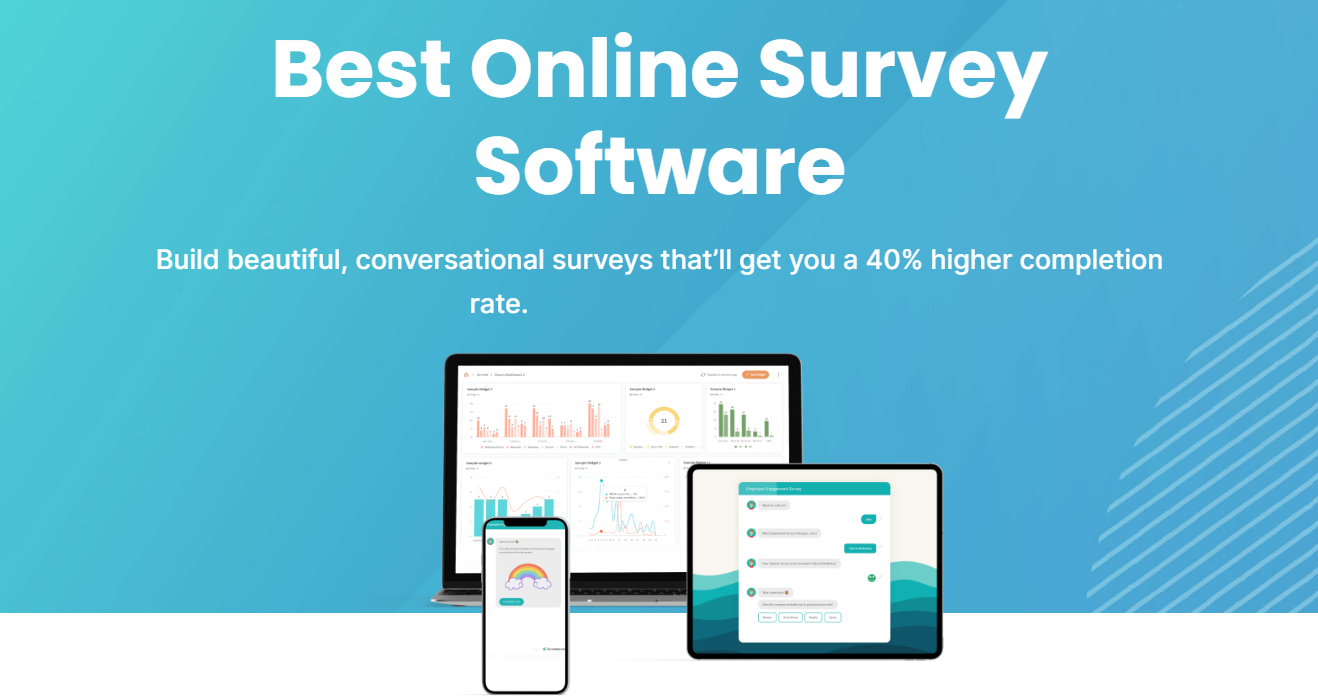
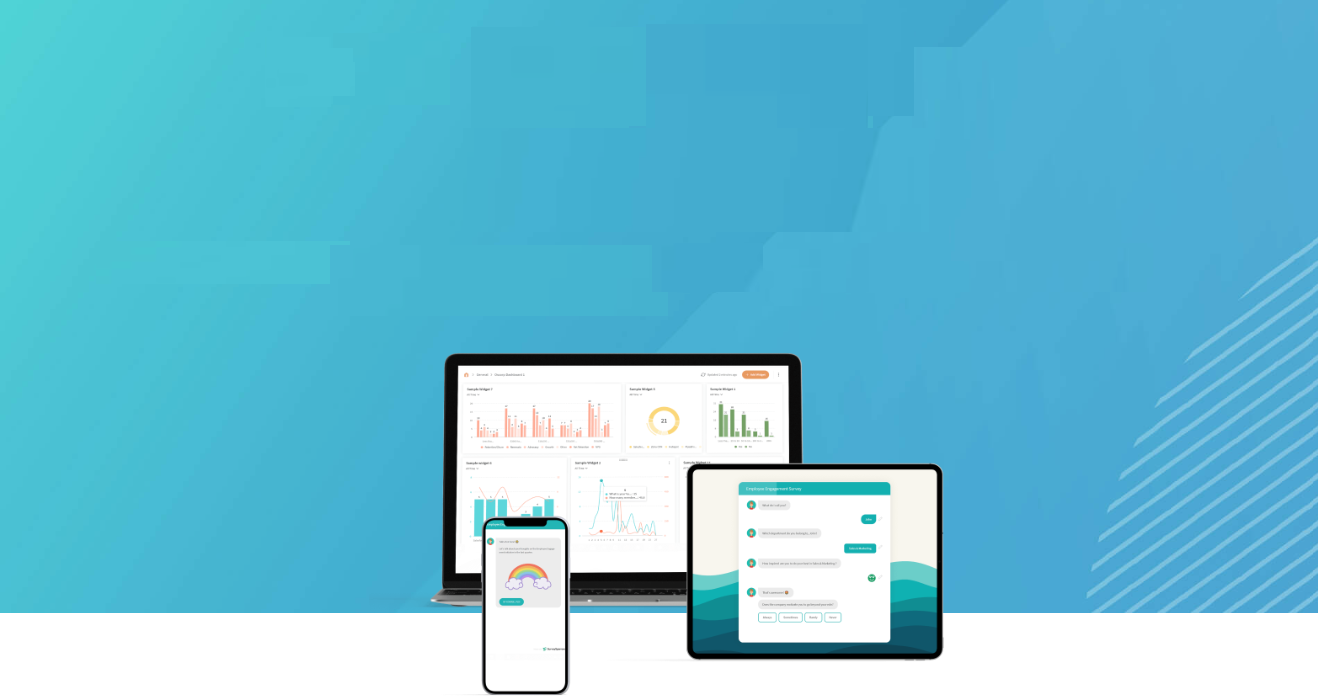
feat: landing styling

diff --git a/client/src/components/Benefits.jsx b/client/src/components/Benefits.jsx
@@ -1,10 +1,25 @@
-import { Box, Grid, Typography } from '@mui/material';
+import {
+  Grid,
+  Typography,
+  Paper,
+  List,
+  ListItem,
+  ListItemIcon,
+  ListItemText,
+} from '@mui/material';
+import CheckIcon from '@mui/icons-material/Check';
 import planing from '../assets/planing.jpg';
 import Styles from '../assets/Styles';
 
+const benefits = [
+  'Improve customer satisfaction',
+  'Identify areas for improvement',
+  'Make better business decisions',
+  ' Increase customer loyalty',
+];
 export const Benefits = () => {
   return (
-    <Box sx={{ padding: '20px 0' }}>
+    <Paper elevation={3} sx={{ padding: '10px 20px', bgcolor: '#43B0D1' }}>
       <Grid container spacing={1} alignItems="center" style={{ flexGrow: 1 }}>
         <Grid container item xs={12} justifyContent="center">
           <Typography variant="h2" sx={Styles.asideTitleTypography}>
@@ -17,49 +32,29 @@ export const Benefits = () => {
           md={6}
           style={{ display: 'flex', flexDirection: 'column' }}
         >
-          <ul style={{ margin: '0px', padding: '0px' }}>
-            <li>
-              <Typography
-                variant="body1"
-                sx={Styles.asideSubtitleTypography}
-              >
-                Improve customer satisfaction
-              </Typography>
-            </li>
-            <li>
-              <Typography
-                variant="body1"
-                sx={Styles.asideSubtitleTypography}
-              >
-                Identify areas for improvement
-              </Typography>
-            </li>
-            <li>
-              <Typography
-                variant="body1"
-                sx={Styles.asideSubtitleTypography}
-              >
-                Make better business decisions
-              </Typography>
-            </li>
-            <li>
-              <Typography
-                variant="body1"
-                sx={Styles.asideSubtitleTypography}
-              >
-                Increase customer loyalty
-              </Typography>
-            </li>
-          </ul>
+          <List>
+            {benefits.map((benefit) => (
+              <ListItem disablePadding key={benefit}>
+                <ListItemIcon sx={{ minWidth: '30px' }}>
+                  <CheckIcon fontSize={'medium'} sx={{ color: 'white' }} />
+                </ListItemIcon>
+                <ListItemText
+                  primaryTypographyProps={{ variant: 'h7' }}
+                  primary={benefit}
+                  sx={Styles.asideSubtitleTypography}
+                />
+              </ListItem>
+            ))}
+          </List>
         </Grid>
         <Grid item xs={12} md={6}>
           <img
             src={planing}
-            style={{ maxWidth: '100%', height: 'auto', display: 'block' }}
+            style={{ maxWidth: '90%', height: 'auto', display: 'block' }}
             alt="Feedback"
           />
         </Grid>
       </Grid>
-    </Box>
+    </Paper>
   );
 };

diff --git a/client/src/components/Features.jsx b/client/src/components/Features.jsx
@@ -1,10 +1,25 @@
-import { Box, Typography, Grid } from '@mui/material';
+import {
+  Typography,
+  Grid,
+  Paper,
+  List,
+  ListItem,
+  ListItemIcon,
+  ListItemText,
+} from '@mui/material';
+import CheckIcon from '@mui/icons-material/Check';
 import feedbackImage from '../assets/feedback.jpg';
 import Styles from '../assets/Styles';
 
+const features = [
+  'Create custom surveys',
+  'Send surveys via email or link',
+  'Track survey responses',
+  ' Get detailed analytics',
+];
 export const Features = () => {
   return (
-    <Box sx={{ padding: '20px 0' }}>
+    <Paper elevation={3} sx={{ padding: '10px 20px', bgcolor: '#43B0D1' }}>
       <Grid container spacing={1} alignItems="center">
         <Grid container item xs={12} justifyContent="center">
           <Typography variant="h2" sx={Styles.asideTitleTypography}>
@@ -17,28 +32,20 @@ export const Features = () => {
           md={6}
           style={{ display: 'flex', flexDirection: 'column' }}
         >
-          <ul style={{ margin: '0px', padding: '0px' }}>
-            <li>
-              <Typography variant="body1" sx={Styles.asideSubtitleTypography}>
-                Create custom surveys
-              </Typography>
-            </li>
-            <li>
-              <Typography variant="body1" sx={Styles.asideSubtitleTypography}>
-                Send surveys via email or link
-              </Typography>
-            </li>
-            <li>
-              <Typography variant="body1" sx={Styles.asideSubtitleTypography}>
-                Track survey responses
-              </Typography>
-            </li>
-            <li>
-              <Typography variant="body1" sx={Styles.asideSubtitleTypography}>
-                Get detailed analytics
-              </Typography>
-            </li>
-          </ul>
+          <List>
+            {features.map((feature) => (
+              <ListItem disablePadding key={feature}>
+                <ListItemIcon sx={{ minWidth: '30px' }}>
+                  <CheckIcon fontSize={'medium'} sx={{ color: 'white' }} />
+                </ListItemIcon>
+                <ListItemText
+                  primaryTypographyProps={{ variant: 'h7' }}
+                  primary={feature}
+                  sx={Styles.asideSubtitleTypography}
+                />
+              </ListItem>
+            ))}
+          </List>
         </Grid>
 
         <Grid item xs={12} md={6}>
@@ -49,6 +56,6 @@ export const Features = () => {
           />
         </Grid>
       </Grid>
-    </Box>
+    </Paper>
   );
 };

diff --git a/client/src/pages/LandingPage.jsx b/client/src/pages/LandingPage.jsx
@@ -1,41 +1,24 @@
 import { Box, Grid, Button, Container } from '@mui/material';
-import heroImage from '../assets/hero.png';
 import { Pricing } from '../components/Pricing';
 import { Benefits } from '../components/Benefits';
 import { Features } from '../components/Features';
-import Styles from '../assets/Styles';
+import { Hero } from '../components/Hero';
 
 const LandingPage = () => {
   return (
-    <Container>
+    <Container sx={{marginTop:'10px'}}>
       <Grid container spacing={1}>
         <Grid item xs={12}>
-          <Box
-            sx={{
-              ...Styles.heroBox,
-              backgroundImage: `url(${heroImage})`,
-            }}
-          ></Box>
+          <Hero />
         </Grid>
-        <Grid item xs={12} md={6}>
+        <Grid item xs={12} md={6} >
           <Features />
         </Grid>
-        <Grid item xs={12} md={6}>
+        <Grid item xs={12} md={6} >
           <Benefits />
         </Grid>
-        <Grid item xs={12}>
+        <Grid item xs={12} sx={{justifyContent: 'center',display:'flex',}}>
           <Pricing />
-        </Grid>
-        <Grid item xs={12}>
-          <Box sx={{ textAlign: 'center', marginTop: '0px' }}>
-            <Button
-              variant="contained"
-              sx={{ marginRight: '1px' }}
-              onClick={() => (window.location.href = '/auth/google')}
-            >
-              Sign up for free
-            </Button>
-          </Box>
         </Grid>
       </Grid>
     </Container>

diff --git a/client/src/components/Hero.jsx b/client/src/components/Hero.jsx
@@ -1,0 +1,42 @@
+import { Box, Typography } from '@mui/material';
+import heroImage from '../assets/hero.png';
+import Styles from '../assets/Styles';
+
+export const Hero = () => {
+  return (
+    <Box
+      sx={{
+        ...Styles.heroBox,
+        backgroundImage: `url(${heroImage})`,
+        position: 'relative', // Añadimos posición relativa para posicionar el texto sobre la imagen
+        textAlign: 'center', // Centramos horizontalmente
+      }}
+    >
+      <Typography
+        variant="h2" // Puedes ajustar el tamaño del texto según tus necesidades
+        sx={{
+          ...Styles.asideTitleTypography,
+          position: 'absolute',
+          top: '5%',
+          left: 0,
+          right: 0,
+          color: 'white',
+        }}
+      >
+        Simply Online Survey Software
+      </Typography>
+      <Typography
+        variant="h4" // Puedes ajustar el tamaño del texto según tus necesidades
+        sx={{
+          ...Styles.asideTitleTypography,
+          position: 'absolute',
+          top: '20%',
+          left: 0,
+          right: 0,
+        }}
+      >
+        From Feedback to Strategy: Your Survey Solution
+      </Typography>
+    </Box>
+  );
+};

diff --git a/client/src/components/Pricing.jsx b/client/src/components/Pricing.jsx
@@ -1,14 +1,17 @@
-import { Box, Typography } from '@mui/material';
+import { Box, Typography, Paper, Button } from '@mui/material';
 import Styles from '../assets/Styles';
 
 export const Pricing = () => {
   return (
-    <Box
+    <Paper
+      elevation={3}
       sx={{
-        padding: '10px 0',
+        padding: '10px 10px',
         display: 'flex',
         flexDirection: 'column',
         alignItems: 'center',
+        maxWidth: '700px',
+        bgcolor:'#43B0D1'
       }}
     >
       <Box sx={{ mt: 1 }}>
@@ -21,12 +24,20 @@ export const Pricing = () => {
           sx={{
             ...Styles.asideSubtitleTypography,
             fontWeight: 600,
-            color: '#1e88e5',
           }}
         >
           5€ for 5 credits
         </Typography>
+        <Box sx={{ textAlign: 'center', marginTop: '0px' }}>
+          <Button
+            variant="contained"
+            sx={{ marginRight: '1px' }}
+            onClick={() => (window.location.href = '/auth/google')}
+          >
+            Sign up for free
+          </Button>
+        </Box>
       </Box>
-    </Box>
+    </Paper>
   );
 };

diff --git a/client/src/pages/Dashboard.jsx b/client/src/pages/Dashboard.jsx
@@ -45,7 +45,7 @@ export const Dashboard = ({ userData }) => {
           <Typography
             variant="h4"
             align="center"
-            sx={Styles.dashboardContainerTypography}
+            sx={{...Styles.dashboardContainerTypography,color:'#514CD1'}}
           >
             Still don't have any surveys.
             <br />

diff --git a/client/src/assets/Styles.js b/client/src/assets/Styles.js
@@ -1,6 +1,6 @@
 const basicLetter = {
   alignItems: 'center',
-  color: '#1e88e5',
+  color: 'white',
   fontFamily: 'monospace',
 };
 
